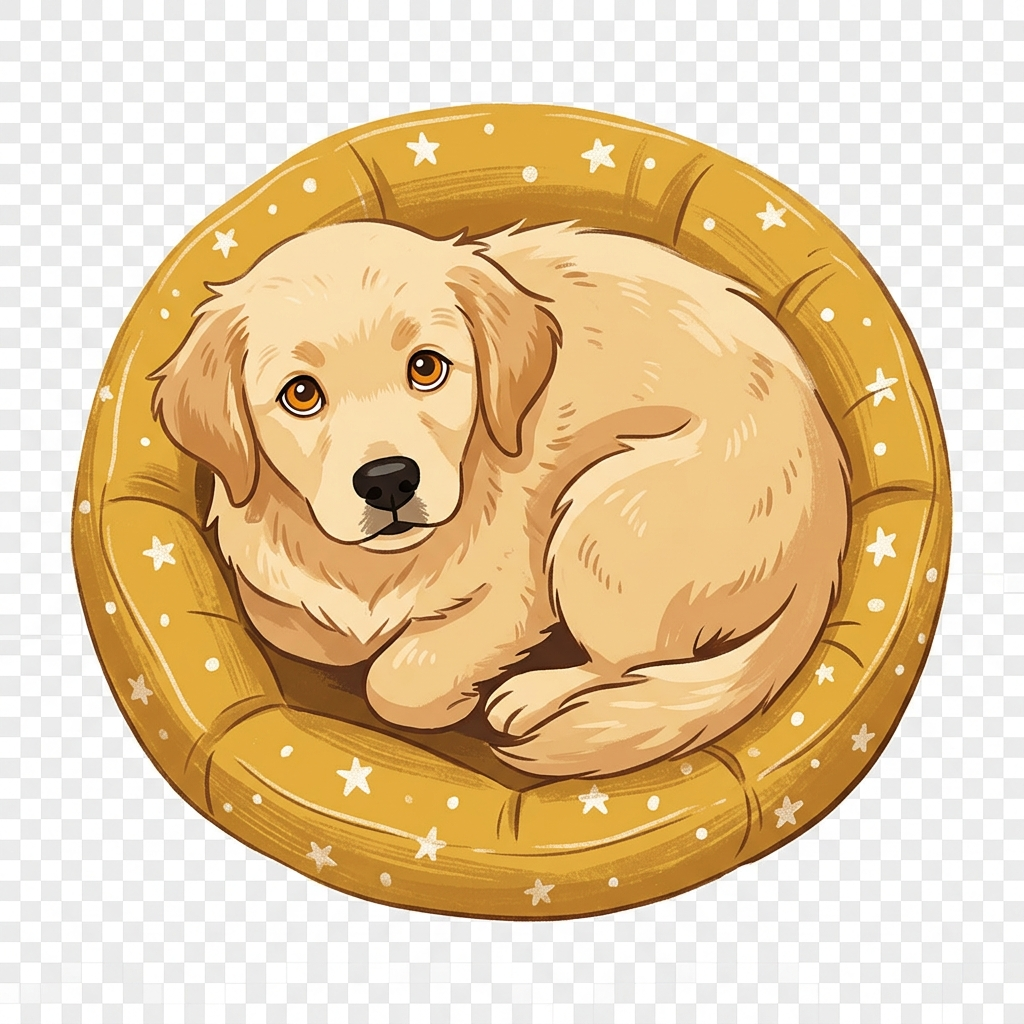
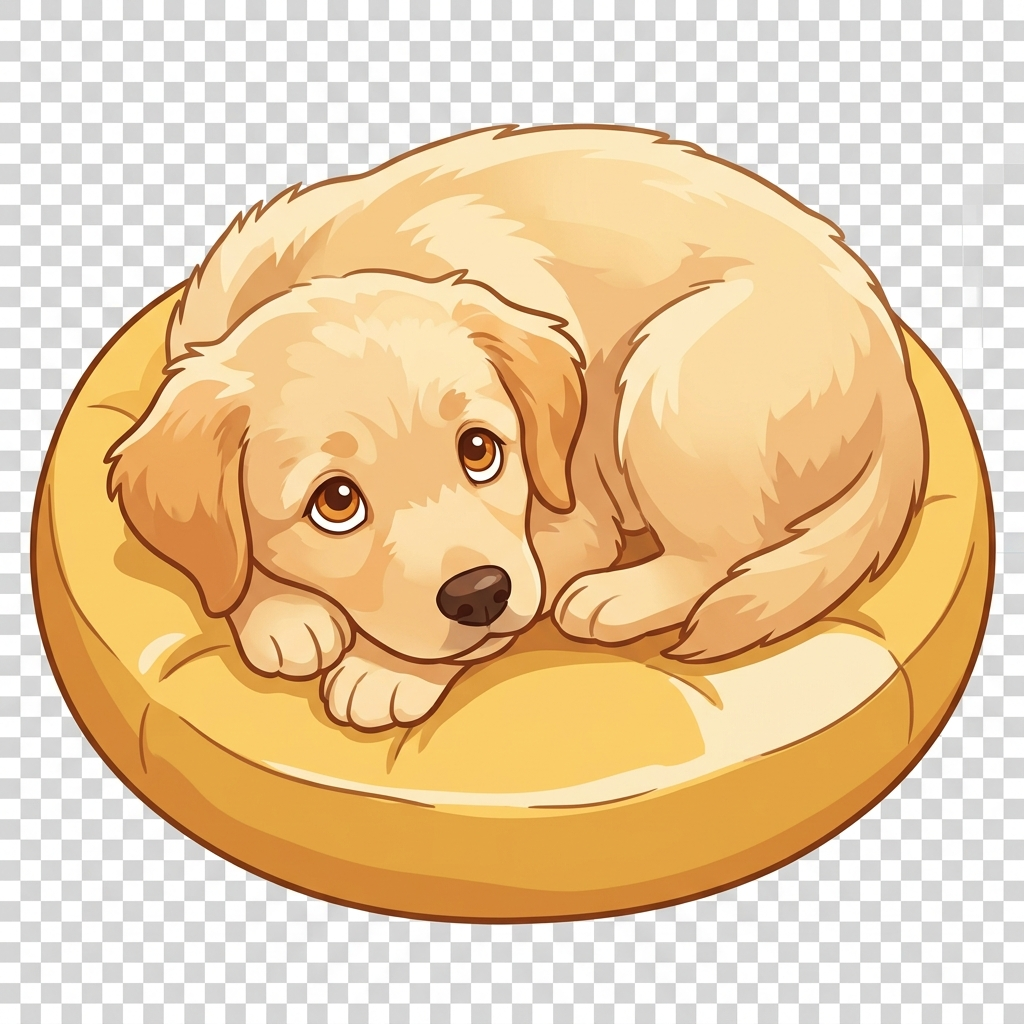
Fix whiteboard: perspective lean on sill + warm shadow. Fix dog overlay: proper transparent PNG, contain fit, multiply blend

diff --git a/styles.css b/styles.css
@@ -316,16 +316,19 @@ button:focus-visible, a:focus-visible, [tabindex]:focus-visible {
 /* ── Interactive Whiteboard (window sill) ── */
 .whiteboard {
   position: absolute;
-  left: 11%;
-  top: 45%;
+  left: 10%;
+  top: 38%;
   z-index: 3;
-  width: 15%;
+  width: 16%;
   aspect-ratio: 4 / 3;
-  filter: drop-shadow(0 6px 18px rgba(10,5,2,.45));
+  /* lean slightly back like it's propped against the window */
+  transform: perspective(600px) rotateX(4deg);
+  transform-origin: bottom center;
+  filter: drop-shadow(0 6px 0px rgba(160,120,70,.55)) drop-shadow(0 8px 18px rgba(10,5,2,.35));
   transition: filter .3s ease;
 }
 .whiteboard:hover {
-  filter: drop-shadow(0 10px 26px rgba(10,5,2,.6));
+  filter: drop-shadow(0 6px 0px rgba(160,120,70,.6)) drop-shadow(0 10px 24px rgba(10,5,2,.45));
 }
 .whiteboard__frame {
   position: relative;
@@ -446,15 +449,17 @@ button:focus-visible, a:focus-visible, [tabindex]:focus-visible {
 /* ── Dog awake image overlay ── */
 .dog-awake-img {
   position: absolute;
-  inset: 0;
-  width: 100%;
-  height: 100%;
-  object-fit: cover;
-  border-radius: inherit;
+  /* cover the dog+bed area precisely within the hotspot */
+  left: -10%;
+  top: -5%;
+  width: 120%;
+  height: 110%;
+  object-fit: contain;
+  object-position: center bottom;
   opacity: 0;
-  transform: scale(.96);
+  transform: scale(.94);
   mix-blend-mode: multiply;
-  transition: opacity .35s ease, transform .4s cubic-bezier(.34,1.2,.64,1);
+  transition: opacity .4s ease, transform .45s cubic-bezier(.34,1.15,.64,1);
   pointer-events: none;
 }
 .dog-hotspot:hover .dog-awake-img,
